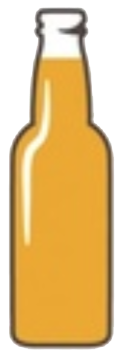
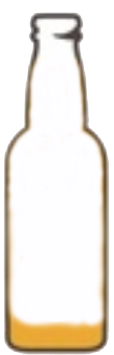
listBars -> finished

diff --git a/barup/Components/listBars.2.js b/barup/Components/listBars.2.js
@@ -2,7 +2,6 @@ import React, {Component} from 'react';
 import { StyleSheet, Text, View, StatusBar, ListView, Image,TouchableOpacity, FlatList, Dimensions, TouchableHighlight, ActivityIndicator, Platform, PixelRatio  } from 'react-native';
 import { Container, Content, Header, Form, Input, Item, Button, Label, Icon, List, ListItem, Card, CardItem, Thumbnail, Body, Left, Right} from 'native-base'
 import RF from "react-native-responsive-fontsize";
-import { Rating } from 'react-native-elements';
 
 var {height, width} = Dimensions.get('window');
 const {
@@ -50,11 +49,6 @@ barImages = [
   require('../assets/bar4.jpg'),
   require('../assets/bar5.jpg'),
 ]
-beerImages = [
-  require('../assets/beer/beer1.png'),
-  require('../assets/beer/beer2.png'),
-  require('../assets/beer/beer3.png'),
-]
 
 const numColumns = 3;
 class listBars extends Component {
@@ -69,6 +63,7 @@ class listBars extends Component {
       refreshing: false,
       loaging: false,
       firstKnownKey: null,
+      imgFire: ""
     }
   }
   static navigationOptions = { 
@@ -134,10 +129,10 @@ class listBars extends Component {
     //console.log(that.state.firstKnownKey)    
     var newData = [...that.state.listViewData]
     var ref = firebase.database().ref('/bars')
-    ref.orderByKey().limitToFirst(6).on('child_added', function(childSnapshot, prevChildKey) {
+    ref.orderByKey().limitToFirst(4).on('child_added', function(childSnapshot, prevChildKey) {
       //console.log(childSnapshot.val())
       that.state.firstKnownKey = childSnapshot.key;
-      //console.log("KEY:",that.state.firstKnownKey)
+      console.log("KEY:",that.state.firstKnownKey)
       newData.push(childSnapshot)
     },
     that.setState({ listViewData: newData, refreshing: false, loading: false}));
@@ -149,10 +144,10 @@ class listBars extends Component {
     var f = that.state.firstKnownKey   
     var newData = [...that.state.listViewData]
     var ref = firebase.database().ref('/bars')
-    ref.orderByKey().startAt(that.state.firstKnownKey).limitToFirst(7).on('child_added', function(childSnapshot, prevChildKey) {
+    ref.orderByKey().startAt(that.state.firstKnownKey).limitToFirst(5).on('child_added', function(childSnapshot, prevChildKey) {
       that.state.firstKnownKey = childSnapshot.key;
       if(f !== that.state.firstKnownKey){
-        //console.log("CHILD: ", childSnapshot.key)
+        console.log("CHILD: ", childSnapshot.key)
         newData.push(childSnapshot)
       } else {
         that.setState({ listViewData: newData, refreshing: false, loading: false})
@@ -163,7 +158,9 @@ class listBars extends Component {
   }
   
   componentDidMount() {
-      this.makeRemoteRequest() 
+    this.getImgFire()
+    this.makeRemoteRequest()
+    
   }
 
   handleLoadMore = () => {
@@ -174,15 +171,12 @@ class listBars extends Component {
       setTimeout(function(){that.makeRemoteRequest2()},2000)
     })
   }
-
-  getCrowd(pred){
-    if(pred === 0){
-      return beerImages[0]
-    } else if (pred === 1){
-      return beerImages[1]      
-    } else {
-      return beerImages[2]      
-    }
+  getImgFire = () => {
+    var path = firebase.storage().ref().child('images/bar2.jpg').getDownloadURL().then((url) => {
+      console.log(url);
+      let imgURL = JSON.stringify(url)
+      this.setState({imgFire: url})
+    })
   }
   renderItem = ({ item }) => {
     return (
@@ -191,7 +185,7 @@ class listBars extends Component {
           <Card style={styles.card}>
             <View style={styles.first}>
               <View style={styles.barFoto}>
-                <Image style={styles.imgBar} source={barImages[2]}/>
+                <Image style={styles.img2} source={{uri: this.state.imgFire}}/>
               </View>
               <View style={styles.barStyle}>
                 <Text style={{fontSize:RF(3.3),color:'white'}}>Luxurious</Text>
@@ -204,24 +198,17 @@ class listBars extends Component {
             </View>
             <View style={styles.second}>
               <View style={styles.name}>
-                <Text style={{fontSize:RF(3.2)}}>{item.val().name}</Text>                
+                <Text style={{fontSize:RF(3.5)}}>{item.val().name}</Text>                
               </View>
               <View style={styles.location}>
-                <Text style={{fontSize:RF(3.1)}}>Marina</Text>                
+                <Text style={{fontSize:RF(3.3)}}>Marina</Text>                
               </View>
               <View style={styles.rating}>
-                <Rating
-                  fractions={1}
-                  startingValue={item.val().rating}
-                  readonly
-                  imageSize={25}
-                  onFinishRating={this.ratingCompleted}
-                  style={{backgroundColor:'#000'}} 
-                />               
+                <Text style={{fontSize:RF(4)}}>Rating</Text>                
               </View>
               <View style={styles.price}>
-                <Text style={{fontSize:RF(4)}}>{item.val().beerPrice}€
-                  <Text style={{fontSize:RF(3.1)}}>/Beer</Text> 
+                <Text style={{fontSize:RF(3.5)}}>{item.val().beerPrice}€
+                  <Text style={{fontSize:RF(3)}}>/Beer</Text> 
                 </Text> 
                                
                 
@@ -232,7 +219,7 @@ class listBars extends Component {
                 <Icon style={{fontSize:RF(8)}} name="ios-star"/>
               </View >
               <View style={styles.crowd}>
-                <Image style={styles.icobeer} source={this.getCrowd(item.val().prediction)}/>
+                <Image style={styles.img} source={require('../assets/beer/beer1.png')}/>
               </View >
               
             </View >
@@ -253,7 +240,7 @@ class listBars extends Component {
         refreshing={this.state.refreshing}
         //onRefresh={this.handleRefresh}
         onEndReached={this.handleLoadMore}
-        onEndReachedThreshold={0}
+        onEndReachedThreshold={1}
         ListFooterComponent={() => { // replaces renderFooter={() => {
           if(this.state.refreshing){
             return (
@@ -278,7 +265,7 @@ const styles = StyleSheet.create({
     flex: 1
   },
   item: {
-    backgroundColor: '#ded4d4',
+    backgroundColor: '#dce3ef',
     alignItems: 'center',
     justifyContent: 'center',
     flex: 1,
@@ -303,7 +290,7 @@ const styles = StyleSheet.create({
   card: {
     flex: 1,
     flexDirection: 'row',
-    backgroundColor: 'white'
+    backgroundColor: '#ded4d4'
   },
   first: {
     width: "30%",
@@ -312,7 +299,7 @@ const styles = StyleSheet.create({
   },
   second: {
     width: "50%",
-    height: '100%',   
+    height: '100%',    
   },
   third: {
     width: "20%",
@@ -352,11 +339,11 @@ const styles = StyleSheet.create({
     alignItems: 'center',
     padding: 10
   },
-  icobeer: {
+  img: {
     flex:1,
     resizeMode: 'contain',
   },
-  imgBar: {
+  img2: {
     flex: 1,
     width: "100%",
     height: '50%',
@@ -364,27 +351,24 @@ const styles = StyleSheet.create({
   },
   name: {
     width: "100%",
-    height: '30%', 
-    alignItems: 'center',
-    justifyContent: 'center',
+    height: '30%',
+    paddingLeft: 7,  
   },
   location: {
     width: "100%",
     height: '15%',
-    alignItems: 'center',
-    justifyContent: 'center',
+    paddingLeft: 7,  
   },
   rating: {
     width: "100%",
     height: '25%',
-    justifyContent: 'center',
-    alignItems: 'center',
+    paddingLeft: 7,  
+    
   },
   price: {
     width: "100%",
-    height: '30%', 
-    alignItems: 'center',
-    justifyContent: 'center',
+    height: '30%',
+    paddingLeft: 7,  
     
   }
 
